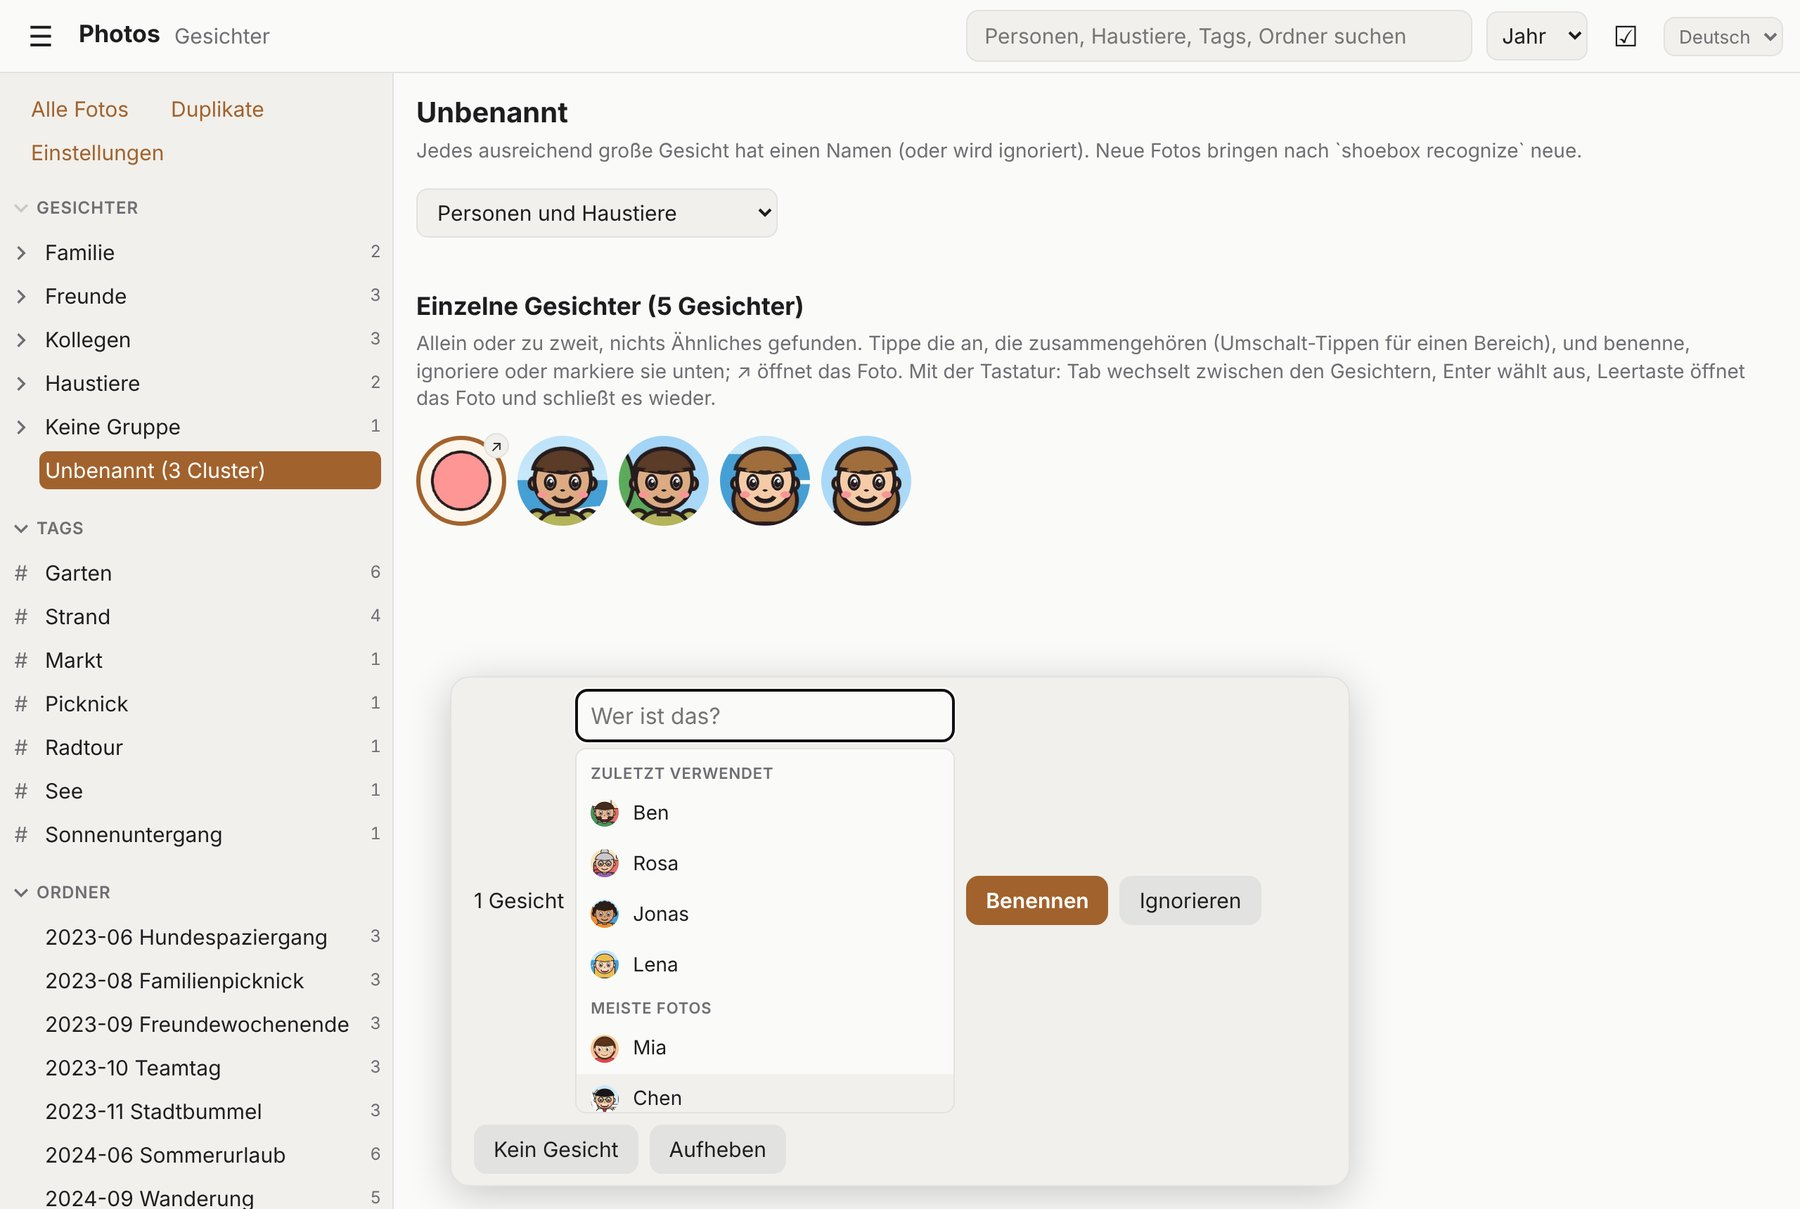
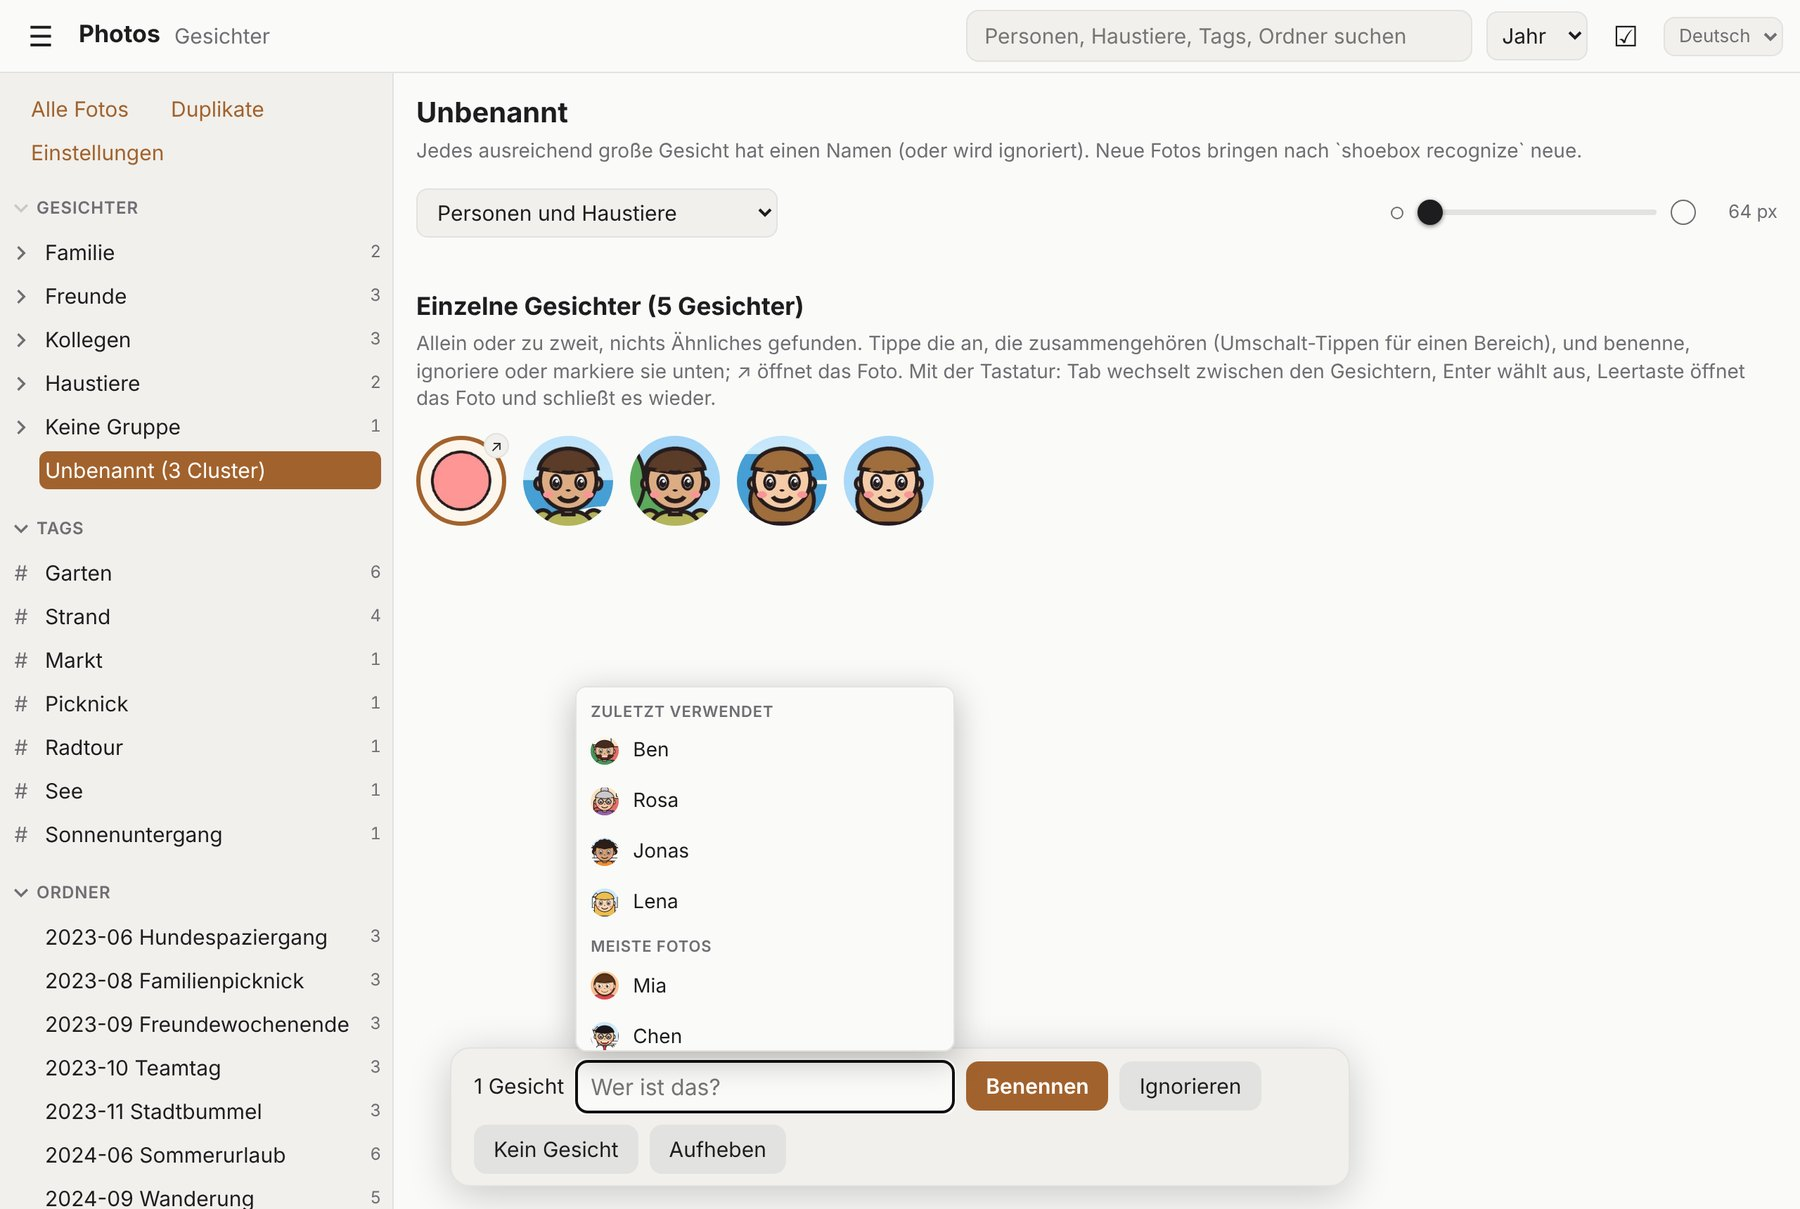
Name list of the single faces bar opens upwards over the page
The bar sits at the bottom of the screen, so the list under the name field
made the bar grow to its height. It now floats above the field and the bar
keeps its size. Guide screenshot and caption updated (en/de).

Claude-Session: https://claude.ai/code/session_01ExppwYkkuNJdLgMQs66HLj

diff --git a/core/web/app.css b/core/web/app.css
@@ -628,6 +628,14 @@ body.selecting .sec .pick { display: inline; }
 @media (hover: none) { .sface-grid .copen { opacity: 1; } }
 .singles-bar { flex-wrap: wrap; white-space: normal; max-width: calc(100% - 24px); }
 .singles-bar .pfield { min-width: 160px; }
+/* The bar sits at the bottom of the screen: the name list opens upwards, over the page,
+   instead of making the bar grow. */
+.singles-bar .pfield { position: relative; }
+.singles-bar .plist {
+  position: absolute; left: 0; bottom: 100%; z-index: 1; margin: 0 0 6px;
+  min-width: 100%; width: max-content; max-width: min(360px, 90vw); max-height: min(260px, 50vh);
+  box-shadow: 0 6px 24px rgba(0,0,0,.25);
+}
 .singles-bar.busy { opacity: .6; pointer-events: none; }
 .sface-grid .cface:focus-visible { outline: none; }
 .sface-grid .cface:focus-visible .avatar { box-shadow: 0 0 0 3px var(--bg, #000), 0 0 0 5px var(--fg); }

diff --git a/docs/guide/shoebox-de.html b/docs/guide/shoebox-de.html
@@ -704,7 +704,7 @@
           </figure>
           <figure>
             <img src="assets/de/name-suggestions.jpg" alt="" loading="lazy">
-            <figcaption>Eine Karte benennen: zuerst die zuletzt Benannten, dann die mit den meisten Fotos, dann alle nach Gruppe.</figcaption>
+            <figcaption>Gesichter benennen: zuerst die zuletzt Benannten, dann die mit den meisten Fotos, dann alle nach Gruppe. Die Liste öffnet sich nach oben über der Seite.</figcaption>
           </figure>
         </div>
       </div>

diff --git a/docs/guide/shoebox-en.html b/docs/guide/shoebox-en.html
@@ -704,7 +704,7 @@
           </figure>
           <figure>
             <img src="assets/en/name-suggestions.jpg" alt="" loading="lazy">
-            <figcaption>Naming a card: who you named last, then who has the most photos, then everyone by group.</figcaption>
+            <figcaption>Naming faces: who you named last, then who has the most photos, then everyone by group. The list opens upwards over the page.</figcaption>
           </figure>
         </div>
       </div>
